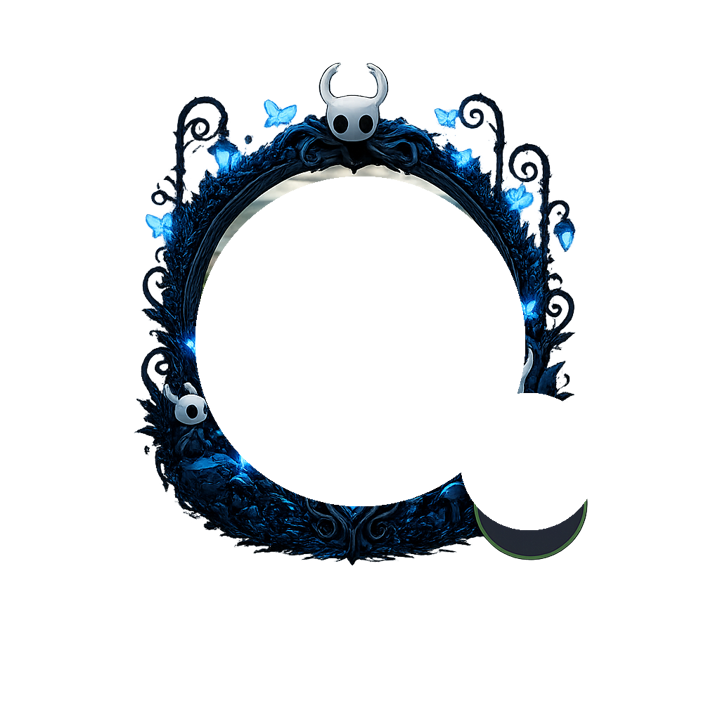
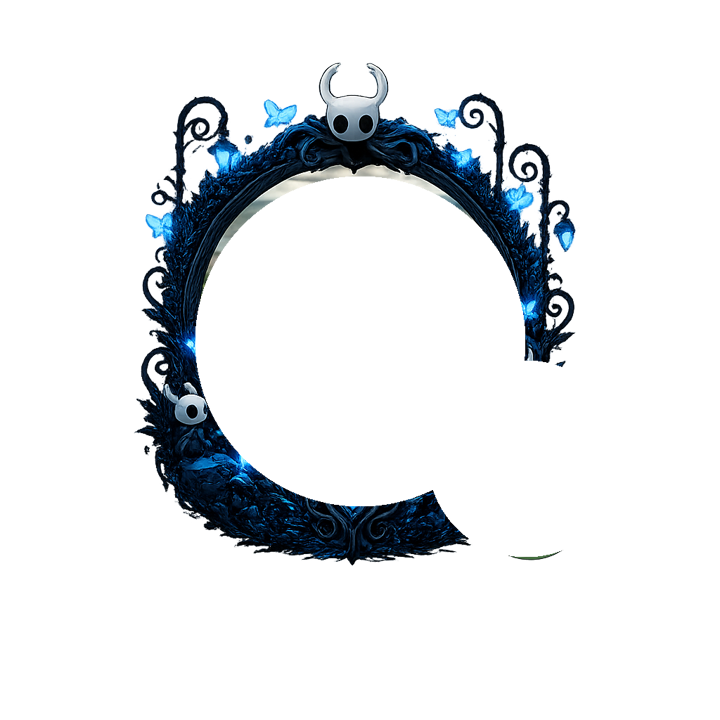
feat(app): fecha temas novos na barra de perfis e no compartilhar
- aro Hollow: 165% (encosta na foto) + corte na metade com degradê discreto; resíduo da câmera da arte apagado; câmera de trocar foto restaurada
- PillFX: fx dos temas novos na barra de perfis (borboletas, glitch, bruxa, sangue)
- shareCard: aros-imagem Hollow/Code desenhados no card + fx novos (butterflies, witch, glitch, blood) congelados

Changed region(s): [[0.5806, 0.6417, 0.825, 0.7944], [0.7028, 0.4889, 0.7944, 0.5806]]

diff --git a/app/src/lib/shareCard.ts b/app/src/lib/shareCard.ts
@@ -60,6 +60,45 @@ function medal(rank?: number): string {
   return '🏅';
 }
 
+// Borboleta de 4 asas (o chamador define fillStyle/shadow). Usada por Hollow e Bruxa.
+function drawButterfly(ctx: CanvasRenderingContext2D, x: number, y: number, s: number) {
+  ctx.beginPath(); ctx.ellipse(x - s * 0.45, y - s * 0.1, s * 0.5, s * 0.7, -0.5, 0, 7); ctx.fill();
+  ctx.beginPath(); ctx.ellipse(x + s * 0.45, y - s * 0.1, s * 0.5, s * 0.7, 0.5, 0, 7); ctx.fill();
+  ctx.beginPath(); ctx.ellipse(x - s * 0.38, y + s * 0.5, s * 0.34, s * 0.46, -0.5, 0, 7); ctx.fill();
+  ctx.beginPath(); ctx.ellipse(x + s * 0.38, y + s * 0.5, s * 0.34, s * 0.46, 0.5, 0, 7); ctx.fill();
+}
+
+// Aro-imagem (PNG com furo central) ao redor do avatar. Espelha os av-frame-* do Perfil:
+// fx/fy = fração do centro do furo no PNG; fr = fração do raio do furo. half = corta na metade
+// (Hollow) com degradê discreto; glow = brilho temático.
+async function drawImageRing(
+  ctx: CanvasRenderingContext2D, cx: number, ay: number, R: number,
+  src: string, fx: number, fy: number, fr: number,
+  opts?: { half?: boolean; glow?: string },
+) {
+  let img: HTMLImageElement;
+  try { img = await loadImage(src); } catch { return; }
+  const Wimg = R / fr;
+  const dx = cx - fx * Wimg;
+  const dy = ay - fy * Wimg;
+  if (opts?.glow) { ctx.save(); ctx.shadowColor = opts.glow; ctx.shadowBlur = 28; }
+  if (opts?.half) {
+    const sz = Math.ceil(Wimg);
+    const off = document.createElement('canvas'); off.width = sz; off.height = sz;
+    const o = off.getContext('2d')!;
+    o.drawImage(img, 0, 0, Wimg, Wimg);
+    o.globalCompositeOperation = 'destination-in';
+    const mg = o.createLinearGradient(0, 0, 0, Wimg);
+    mg.addColorStop(0, '#000'); mg.addColorStop(0.46, '#000');
+    mg.addColorStop(0.53, 'rgba(0,0,0,0.55)'); mg.addColorStop(0.60, 'rgba(0,0,0,0)');
+    o.fillStyle = mg; o.fillRect(0, 0, Wimg, Wimg);
+    ctx.drawImage(off, dx, dy, Wimg, Wimg);
+  } else {
+    ctx.drawImage(img, dx, dy, Wimg, Wimg);
+  }
+  if (opts?.glow) ctx.restore();
+}
+
 // Desenha o aro (frame) ao redor do avatar conforme o cosmético escolhido.
 function drawRing(ctx: CanvasRenderingContext2D, cx: number, ay: number, R: number, lw: number, frame: string, accent: string) {
   if (frame === 'pokeball') {
@@ -262,6 +301,67 @@ async function drawThemeFx(ctx: CanvasRenderingContext2D, W: number, H: number, 
       for (let i = 0; i < 12; i++) { ctx.beginPath(); ctx.arc(rnd() * W, rnd() * H, rnd() * 2 + 1, 0, 7); ctx.fill(); }
       break;
     }
+    case 'butterflies': {
+      // Hollow — enxame de borboletas azuis brilhando
+      ctx.shadowColor = 'rgba(95,209,255,0.9)'; ctx.shadowBlur = 16;
+      for (let i = 0; i < 20; i++) {
+        ctx.globalAlpha = 0.5 + rnd() * 0.45;
+        const s = 16 + rnd() * 26;
+        ctx.fillStyle = `rgb(${100 + Math.floor(rnd() * 70)},${195 + Math.floor(rnd() * 45)},255)`;
+        drawButterfly(ctx, rnd() * W, rnd() * H, s);
+      }
+      ctx.shadowBlur = 0; ctx.globalAlpha = 1;
+      break;
+    }
+    case 'witch': {
+      // Bruxa — fantasma (Echidna) ao fundo + borboletas verde-lima
+      try {
+        const gh = await loadImage('/themes/bruxa-ghost.png');
+        const gw = W * 0.66, ghh = gw * (gh.height / gh.width);
+        ctx.globalAlpha = 0.14;
+        ctx.drawImage(gh, W / 2 - gw / 2, H * 0.16, gw, ghh);
+        ctx.globalAlpha = 1;
+      } catch { /* sem fantasma */ }
+      ctx.shadowColor = 'rgba(150,255,120,0.9)'; ctx.shadowBlur = 16;
+      for (let i = 0; i < 18; i++) {
+        ctx.globalAlpha = 0.5 + rnd() * 0.45;
+        const s = 16 + rnd() * 24;
+        ctx.fillStyle = rnd() < 0.5 ? '#eafff0' : `rgb(${110 + Math.floor(rnd() * 50)},255,${120 + Math.floor(rnd() * 60)})`;
+        drawButterfly(ctx, rnd() * W, rnd() * H, s);
+      }
+      ctx.shadowBlur = 0; ctx.globalAlpha = 1;
+      break;
+    }
+    case 'glitch': {
+      // Code — scanlines verdes + fatias RGB deslocadas
+      ctx.fillStyle = 'rgba(57,255,136,0.05)';
+      for (let y = 0; y < H; y += 4) ctx.fillRect(0, y, W, 2);
+      for (let i = 0; i < 16; i++) {
+        const y = rnd() * H, h = 6 + rnd() * 26, off = 12 + rnd() * 44;
+        ctx.globalAlpha = 0.5;
+        ctx.fillStyle = 'rgba(255,40,90,0.5)'; ctx.fillRect(-off, y, W, h);
+        ctx.fillStyle = 'rgba(60,150,255,0.5)'; ctx.fillRect(off, y + 2, W, h);
+        ctx.fillStyle = 'rgba(57,255,136,0.45)'; ctx.fillRect(0, y, W, h);
+      }
+      ctx.globalAlpha = 1;
+      break;
+    }
+    case 'blood': {
+      // Sete (The Boys) — vinheta escura + sangue escorrendo do topo + respingos
+      const vg = ctx.createRadialGradient(W / 2, H * 0.4, 200, W / 2, H * 0.4, 900);
+      vg.addColorStop(0, 'rgba(90,0,0,0)'); vg.addColorStop(1, 'rgba(70,0,0,0.5)');
+      ctx.fillStyle = vg; ctx.fillRect(0, 0, W, H);
+      for (let i = 0; i < 22; i++) {
+        const x = rnd() * W, w = 4 + rnd() * 11, len = 80 + rnd() * 440;
+        const g = ctx.createLinearGradient(0, 0, 0, len);
+        g.addColorStop(0, 'rgba(180,12,12,0.85)'); g.addColorStop(1, 'rgba(90,0,0,0.18)');
+        ctx.fillStyle = g; ctx.fillRect(x, 0, w, len);
+        ctx.beginPath(); ctx.arc(x + w / 2, len, w * 0.9, 0, 7); ctx.fill();
+      }
+      ctx.fillStyle = 'rgba(140,0,0,0.5)';
+      for (let i = 0; i < 10; i++) { ctx.beginPath(); ctx.arc(rnd() * W, rnd() * H, 10 + rnd() * 30, 0, 7); ctx.fill(); }
+      break;
+    }
     case 'hands': {
       // poça escura no rodapé (de onde as mãos emergem)
       const pool = ctx.createLinearGradient(0, H, 0, H * 0.66);
@@ -350,8 +450,10 @@ export async function buildProgressCard(d: ShareData): Promise<string> {
   const frame = d.frame || 'none';
   // aros-imagem (coroas) são bem maiores que o avatar → reduzir o raio pra coroa
   // caber entre a marca e o nome (não invadir o "TCORDEIRO").
-  const R = frame === 'mine' ? 96 : frame === 'cha' ? 110 : 140;
+  const R = frame === 'mine' ? 96 : frame === 'cha' ? 110 : frame === 'code' ? 96 : frame === 'hollow' ? 130 : 140;
   const ringLw = frame === 'pokeball' ? 22 : 16;
+  // aros desenhados como IMAGEM (não anel conic): pulam o drawRing padrão
+  const imgFrame = frame === 'mine' || frame === 'cha' || frame === 'hollow' || frame === 'code';
   if (d.photo) {
     try {
       const img = await loadImage(d.photo);
@@ -362,7 +464,7 @@ export async function buildProgressCard(d: ShareData): Promise<string> {
       ctx.drawImage(img, cx - dw / 2, ay - dh / 2, dw, dh);
       ctx.restore();
     } catch { /* sem foto */ }
-    if (frame !== 'mine' && frame !== 'cha') drawRing(ctx, cx, ay, R, ringLw, frame, accent);
+    if (!imgFrame) drawRing(ctx, cx, ay, R, ringLw, frame, accent);
   } else {
     // base + número do nível, depois o aro por cima
     ctx.fillStyle = surfCol;
@@ -370,7 +472,7 @@ export async function buildProgressCard(d: ShareData): Promise<string> {
     ctx.textAlign = 'center'; ctx.fillStyle = accent;
     ctx.font = '140px Anton, sans-serif'; ctx.fillText(String(d.level), cx, ay + 46);
     ctx.fillStyle = MUTED; ctx.font = '30px Anton, sans-serif'; ctx.fillText('NÍVEL', cx, ay + 100);
-    if (frame !== 'mine' && frame !== 'cha') drawRing(ctx, cx, ay, R, ringLw, frame, accent);
+    if (!imgFrame) drawRing(ctx, cx, ay, R, ringLw, frame, accent);
   }
 
   // ---- aro Tridente: tridente dourado como coroa em cima do aro (pequeno) ----
@@ -397,6 +499,15 @@ export async function buildProgressCard(d: ShareData): Promise<string> {
       const Wimg = R / 0.261;               // buraco centrado (0.5, 0.5), raio 0.261
       ctx.drawImage(wreath, cx - 0.5 * Wimg, ay - 0.5 * Wimg, Wimg, Wimg);
     } catch { /* ok */ }
+  }
+
+  // ---- aro Hollow: moldura do Cavaleiro (arte do Talys), cortada na metade + brilho azul ----
+  if (frame === 'hollow') {
+    await drawImageRing(ctx, cx, ay, R, '/hollow-ring.png', 0.500, 0.474, 0.228, { half: true, glow: 'rgba(95,209,255,0.6)' });
+  }
+  // ---- aro Code: moldura hacker (arte do Talys), anel completo + brilho verde ----
+  if (frame === 'code') {
+    await drawImageRing(ctx, cx, ay, R, '/code-ring.png', 0.499, 0.458, 0.203, { glow: 'rgba(57,255,136,0.55)' });
   }
 
   // ---- cosmético (ícone pixel) no canto do avatar ----

diff --git a/app/src/components/PillFX.css b/app/src/components/PillFX.css
@@ -118,4 +118,48 @@
 }
 @keyframes pf-pellet { to { background-position: 0 18px, 0 0; } }
 
+/* borboletas (Hollow azul / Bruxa verde) — asas batendo + voo zig-zag */
+.pill-fx .p-bfly { width: 8px; height: 7px; animation-name: pf-flutter; animation-duration: 3s; }
+.pill-fx .p-bfly::before, .pill-fx .p-bfly::after {
+  content: ''; position: absolute; top: 0; width: 4px; height: 7px;
+  background: radial-gradient(circle at 50% 38%, #d8f3ff, #3aa0ff);
+  box-shadow: 0 0 5px rgba(95, 209, 255, 0.9);
+  animation: pf-wing 0.42s ease-in-out infinite;
+}
+.pill-fx .p-bfly::before { left: 0; border-radius: 70% 30% 50% 60%; transform-origin: right center; }
+.pill-fx .p-bfly::after { right: 0; border-radius: 30% 70% 60% 50%; transform-origin: left center; }
+.pill-fx .p-bfly.green::before, .pill-fx .p-bfly.green::after {
+  background: radial-gradient(circle at 50% 38%, #f0ffe8, #6cff8a);
+  box-shadow: 0 0 5px rgba(150, 255, 120, 0.9);
+}
+.pill-fx .p-ghost { inset: 0; background: radial-gradient(circle at 50% 45%, rgba(120, 255, 140, 0.22), transparent 65%); animation-name: pf-pulse; animation-duration: 2.6s; }
+@keyframes pf-wing { 0%, 100% { transform: scaleX(1); } 50% { transform: scaleX(0.36); } }
+@keyframes pf-flutter {
+  0% { transform: translate(0, 4px); opacity: 0.55; }
+  25% { transform: translate(-4px, -2px); opacity: 0.9; }
+  50% { transform: translate(3px, -6px); opacity: 0.8; }
+  75% { transform: translate(-2px, -1px); opacity: 0.9; }
+  100% { transform: translate(0, 4px); opacity: 0.55; }
+}
+
+/* glitch (Code) — fatias RGB deslocando e piscando */
+.pill-fx .p-slice { left: 0; right: 0; height: 3px; mix-blend-mode: screen; opacity: 0; animation-name: pf-glitch; animation-timing-function: steps(1, end); animation-duration: 2.2s; }
+.pill-fx .p-slice.r { background: rgba(255, 40, 90, 0.6); }
+.pill-fx .p-slice.g { background: rgba(57, 255, 136, 0.6); }
+.pill-fx .p-slice.b { background: rgba(60, 150, 255, 0.6); }
+@keyframes pf-glitch {
+  0%, 100% { opacity: 0; transform: translateX(0); }
+  6% { opacity: 0.9; transform: translateX(-3px); }
+  12% { opacity: 0.2; transform: translateX(3px); }
+  18% { opacity: 0; }
+  62% { opacity: 0; }
+  70% { opacity: 0.8; transform: translateX(2px); }
+  78% { opacity: 0; }
+}
+
+/* sangue (Sete) — gotas escorrendo + vinheta vermelha */
+.pill-fx .p-bdrip { top: -8px; width: 2px; height: 11px; background: linear-gradient(#ff3a3a, #7a0000); box-shadow: 0 0 4px rgba(255, 30, 30, 0.7); border-radius: 0 0 60% 60%; animation-name: pf-drip; animation-timing-function: ease-in; }
+.pill-fx .p-bvig { inset: 0; background: radial-gradient(circle at 50% 35%, transparent 42%, rgba(120, 0, 0, 0.42)); animation-name: pf-pulse; animation-duration: 2.4s; }
+@keyframes pf-drip { 0% { transform: translateY(0); opacity: 0; } 16% { opacity: 0.95; } 100% { transform: translateY(34px); opacity: 0; } }
+
 @media (prefers-reduced-motion: reduce) { .pill-fx { display: none; } }

diff --git a/app/src/components/PillFX.tsx b/app/src/components/PillFX.tsx
@@ -56,6 +56,40 @@ const PillFX: React.FC<{ theme?: string | null }> = ({ theme }) => {
       </span>
     );
   }
+  // borboletas (Hollow = azul) / bruxa (witch = verde-branco + fantasma)
+  if (fx === 'butterflies' || fx === 'witch') {
+    const green = fx === 'witch';
+    return (
+      <span className={'pill-fx pfx-' + fx} aria-hidden="true">
+        {green && <span className="pf p-ghost" />}
+        {POS.slice(0, 4).map(([x, y], i) => (
+          <span key={i} className={'pf p-bfly' + (green ? ' green' : '')} style={{ left: `${x}%`, top: `${y}%`, animationDelay: `-${i * 0.7}s` }} />
+        ))}
+      </span>
+    );
+  }
+  // glitch (Code) — fatias RGB piscando
+  if (fx === 'glitch') {
+    const slices: [string, number][] = [['r', 22], ['g', 48], ['b', 72]];
+    return (
+      <span className="pill-fx pfx-glitch" aria-hidden="true">
+        {slices.map(([c, top], i) => (
+          <span key={i} className={'pf p-slice ' + c} style={{ top: `${top}%`, animationDelay: `-${i * 0.5}s` }} />
+        ))}
+      </span>
+    );
+  }
+  // sangue (Sete/The Boys) — gotas escorrendo + vinheta vermelha
+  if (fx === 'blood') {
+    return (
+      <span className="pill-fx pfx-blood" aria-hidden="true">
+        <span className="pf p-bvig" />
+        {[14, 36, 56, 76, 90].map((x, i) => (
+          <span key={i} className="pf p-bdrip" style={{ left: `${x}%`, animationDelay: `-${i * 0.6}s`, animationDuration: `${2.4 + (i % 2) * 0.6}s` }} />
+        ))}
+      </span>
+    );
+  }
   // partículas espalhadas (runas, símbolos, corações, bolhas, neve, vaga-lumes)
   if (fx === 'enchant' || fx === 'math' || fx === 'hearts' || fx === 'bubbles' || fx === 'snow' || fx === 'fireflies') {
     const n = fx === 'fireflies' ? 5 : 6;

diff --git a/app/src/pages/Perfil.css b/app/src/pages/Perfil.css
@@ -105,10 +105,14 @@
 .av-frame-hollow::before { display: none; }
 .av-frame-hollow::after {
   content: ''; position: absolute; left: 50%; top: 50%;
-  width: 212%; aspect-ratio: 1; transform: translate(-50%, -47.4%);
+  width: 165%; aspect-ratio: 1; transform: translate(-50%, -47.4%);
   background: url('/hollow-ring.png') no-repeat center / contain;
   z-index: -1; pointer-events: none;
   filter: drop-shadow(0 0 9px rgba(95, 209, 255, 0.45));
+  /* só a metade de cima do aro; degradê discreto na ponta cortada
+     (a metade de baixo abria espaço pra câmera de trocar foto sem clashar) */
+  -webkit-mask-image: linear-gradient(to bottom, #000 0%, #000 46%, rgba(0,0,0,0.55) 53%, transparent 60%);
+  mask-image: linear-gradient(to bottom, #000 0%, #000 46%, rgba(0,0,0,0.55) 53%, transparent 60%);
 }
 .av-frame-aranha { --ring: conic-gradient(from 0deg, #ff3b3b, #160000, #ff3b3b, #160000); box-shadow: 0 0 13px rgba(255, 59, 59, 0.5); }
 .av-frame-aranha::before { animation-duration: 6s; }

diff --git a/app/src/components/ProfileBar.css b/app/src/components/ProfileBar.css
@@ -104,5 +104,5 @@ html[data-glass] .profile-pill.active .profile-av {
   border-color: var(--brand-lime);
   color: var(--brand-lime);
 }
-.profile-av-wrap.av-frame-hollow::after { width: 212%; }
+.profile-av-wrap.av-frame-hollow::after { width: 165%; }
 .profile-av-wrap.av-frame-code::after { width: 236%; }
